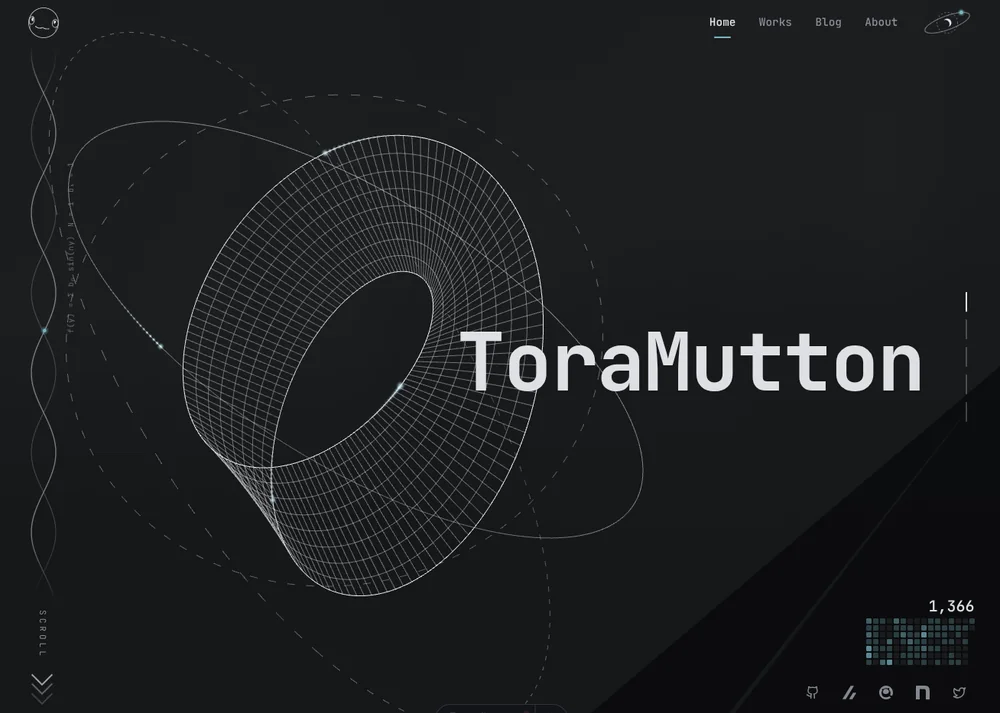
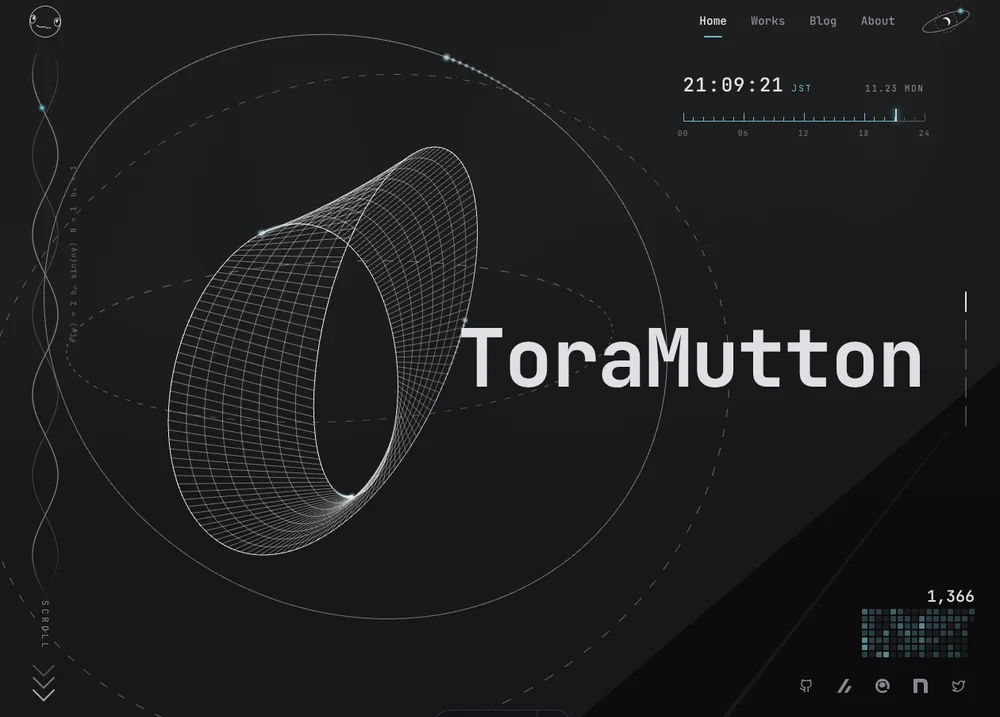
fix: フーリエ波形の荒ぶりを抑えた

diff --git a/src/scripts/fourier.ts b/src/scripts/fourier.ts
@@ -62,6 +62,13 @@ const TAU = Math.PI * 2;
 const CYCLES = 3.5; // レール全体に入る基本波の周期の数
 const SPEED = 0.9; // 波が流れる速さ(rad/s)
 
+// 波形が切り替わるときの「なめらかさ」。
+// 係数・減衰・travel は、目標に向かって臨界減衰のばね(二次の追従)で近づく。
+//   一次の指数的な近づき方(x += (目標 - x) × k)だと、動き出しの瞬間がいちばん速くて唐突になる。
+//   ばねは速度から立ち上がるので、ゆっくり動き出して、ゆっくり止まる。
+// OMEGA が小さいほど穏やか(だいたい 4.6 / OMEGA 秒で追いつく)。
+const OMEGA = 2.2;
+
 /** 係数の組から、1 周期ぶんの |f| の最大値を数値的に求める(振幅をそろえるため) */
 function peak(b: number[]): number {
   let max = 0;
@@ -85,6 +92,14 @@ export function mountFourier(canvas: HTMLCanvasElement, onLabel: (w: Wave) => vo
   let norm = peak(b);
   let damp = target.damp;
   let travel = target.travel;
+  // ばねの速度(b・damp・travel のそれぞれ)
+  const bVel = new Array<number>(NMAX).fill(0);
+  let dampVel = 0;
+  let travelVel = 0;
+  // 進行波の位相。「速さ × 時刻」ではなく、フレームごとに足していく。
+  //   位相 = SPEED × t × travel だと、travel が変わった瞬間に位相が (t × 変化量) だけ飛んで、
+  //   t が大きい(開いてから時間が経った)ほど、切り替え中に波が激しく暴れてしまう
+  let phase = 0;
 
   let width = 0;
   let height = 0;
@@ -105,7 +120,7 @@ export function mountFourier(canvas: HTMLCanvasElement, onLabel: (w: Wave) => vo
 
   // y(0〜height)での f の値。進行波なら位相が時間で進み、定常波なら振幅が時間で揺れる
   const valueAt = (y: number, t: number, shift: number) => {
-    const theta = (TAU * CYCLES * y) / height - SPEED * t * travel + shift;
+    const theta = (TAU * CYCLES * y) / height - phase + shift;
     let f = 0;
     for (let n = 0; n < NMAX; n++) {
       if (b[n] !== 0) f += b[n] * Math.sin((n + 1) * theta);
@@ -167,11 +182,18 @@ export function mountFourier(canvas: HTMLCanvasElement, onLabel: (w: Wave) => vo
     const dt = prev ? Math.min(0.05, (now - prev) / 1000) : 0;
     prev = now;
     time += dt;
-    // 係数を目標へ近づける(指数的に。だいたい 1 秒で追いつく)
-    const k = 1 - Math.exp(-dt * 3.2);
-    for (let n = 0; n < NMAX; n++) b[n] += (target.b[n] - b[n]) * k;
-    damp += (target.damp - damp) * k;
-    travel += (target.travel - travel) * k;
+    // 係数を目標へ、ばねで近づける(臨界減衰: a = ω²(目標 - x) - 2ω v)
+    const w2 = OMEGA * OMEGA;
+    const w2x = 2 * OMEGA;
+    for (let n = 0; n < NMAX; n++) {
+      bVel[n] += (w2 * (target.b[n] - b[n]) - w2x * bVel[n]) * dt;
+      b[n] += bVel[n] * dt;
+    }
+    dampVel += (w2 * (target.damp - damp) - w2x * dampVel) * dt;
+    damp += dampVel * dt;
+    travelVel += (w2 * (target.travel - travel) - w2x * travelVel) * dt;
+    travel += travelVel * dt;
+    phase += SPEED * travel * dt;
     norm = peak(b);
     draw(time);
     raf = requestAnimationFrame(frame);
@@ -200,6 +222,7 @@ export function mountFourier(canvas: HTMLCanvasElement, onLabel: (w: Wave) => vo
       onLabel(next);
       if (reduceMotion) {
         b.splice(0, NMAX, ...next.b);
+        bVel.fill(0);
         damp = next.damp;
         travel = next.travel;
         norm = peak(b);

diff --git a/src/scripts/mobius.ts b/src/scripts/mobius.ts
@@ -47,6 +47,10 @@ const R = 1; // 帯の中心線の半径
 const W = 0.42; // 帯の半幅
 const TAU = Math.PI * 2;
 
+/** 縁を走る光が、縁をひと回り(0〜4π。表→裏→表)するのにかかる秒数。
+ *  もとは 0.45 rad/s(≒ 27.9 秒)で、それをきりのよい 28 秒に決めた */
+const COMET_LAP_SECONDS = 28;
+
 function mobius(u: number, v: number, out: Vector3): Vector3 {
   const r = R + v * Math.cos(u / 2);
   return out.set(r * Math.cos(u), r * Math.sin(u), v * Math.sin(u / 2));
@@ -240,7 +244,7 @@ export function mountMobius(container: HTMLElement): MobiusHandle | null {
   function updatePoints(time: number) {
     // 縁の彗星: t は 0〜4π を一周する
     for (let h = 0; h < COMETS; h++) {
-      const head = time * 0.45 + (2 * TAU * h) / COMETS;
+      const head = (time * 2 * TAU) / COMET_LAP_SECONDS + (2 * TAU * h) / COMETS;
       for (let i = 0; i < TAIL; i++) {
         mobius(head - i * 0.028, W, tmp);
         const k = (h * TAIL + i) * 3;
